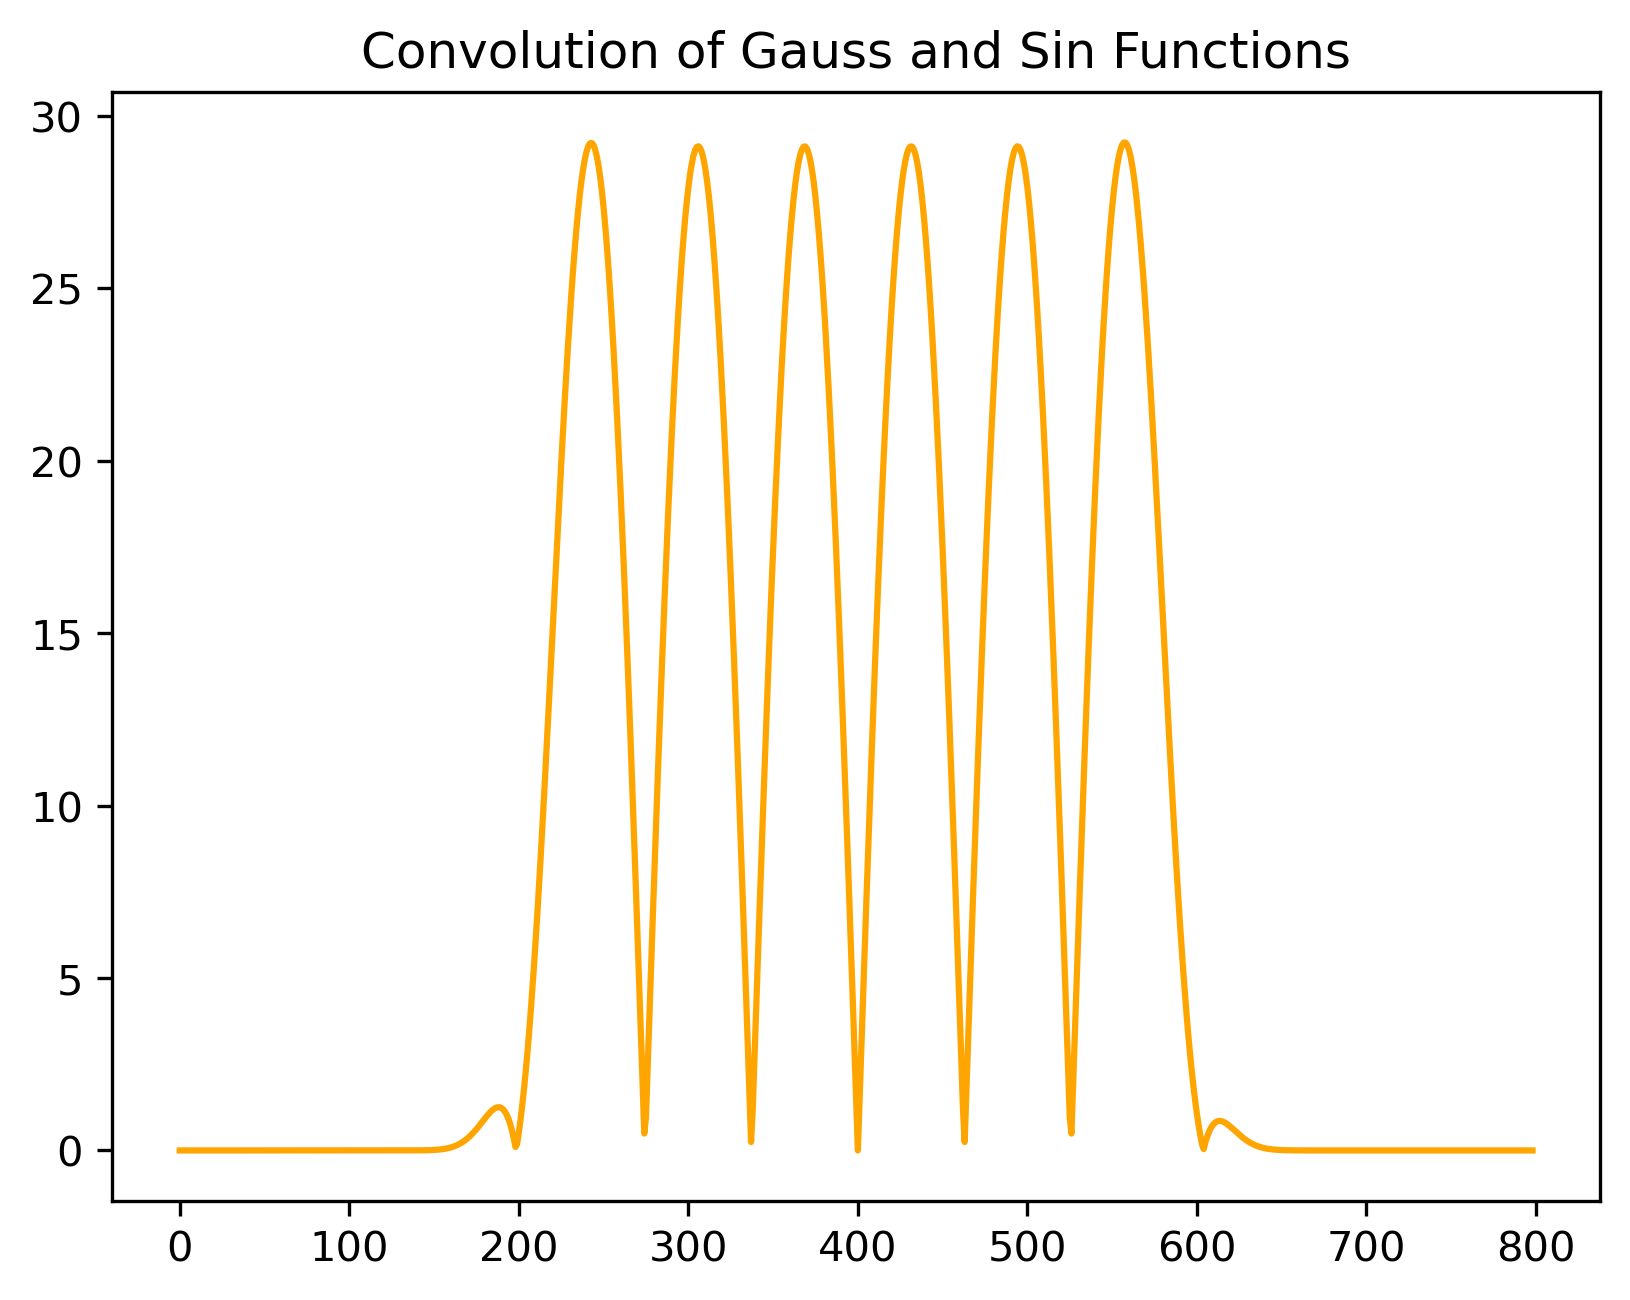
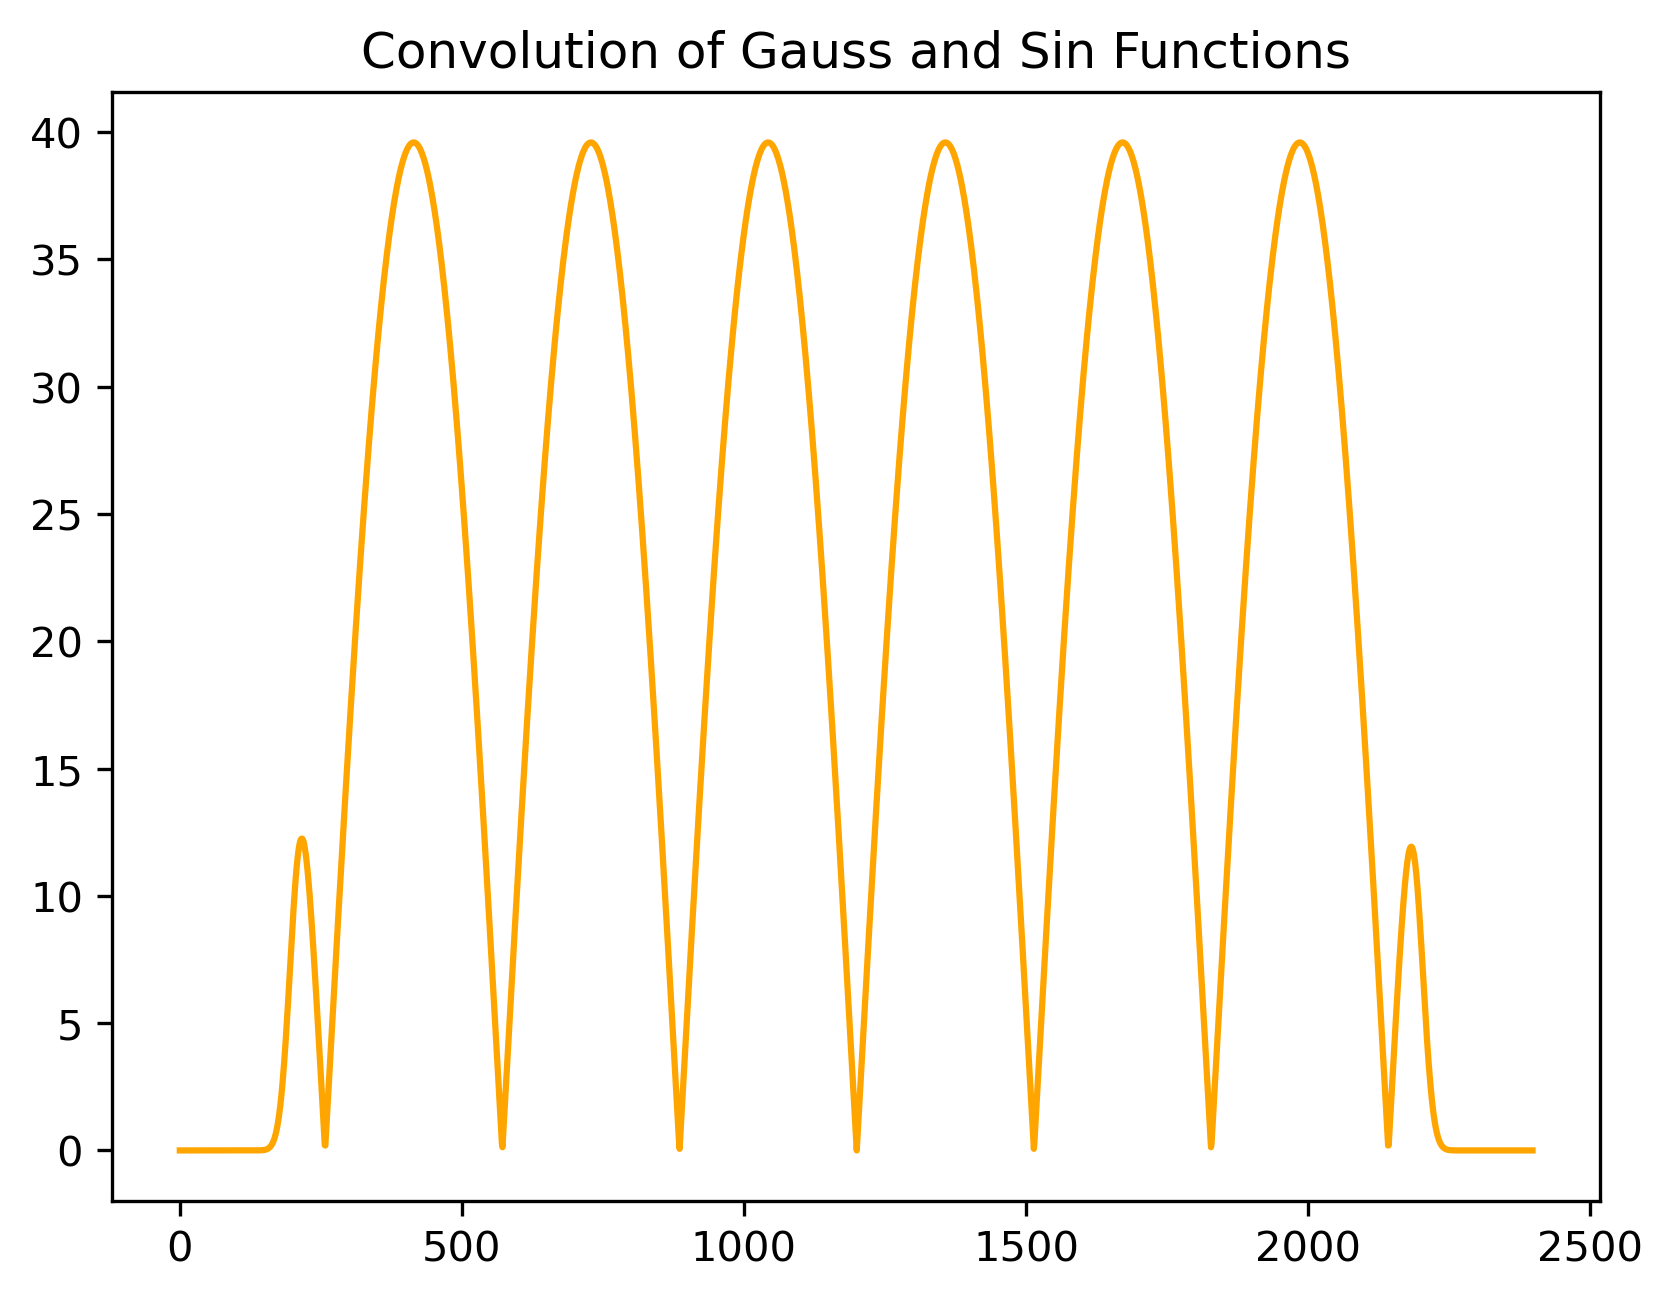
1122

diff --git a/problem_sets/ps5/p51.py b/problem_sets/ps5/p51.py
@@ -17,14 +17,14 @@ def con_shift(array,x,n =2):
 x = np.arange(-10,10,.05)
 y = np.exp(-0.5*x**2/(0.8**2))
 
-gauss_shift = con_shift(y,x,2)
+gauss_shift = con_shift(y,x,3)
 
 
-plt.plot(x,y)
-plt.plot(x,gauss_shift)
-plt.title('Half shift of Gaussian')
-plt.savefig("gauss_shift.png",dpi = 300, bbox_inches = 'tight')
-plt.show()
+# plt.plot(x,y)
+# plt.plot(x,gauss_shift)
+# plt.title('1/3 shift of Gaussian')
+# plt.savefig("gauss_shift_new.png",dpi = 300, bbox_inches = 'tight')
+# plt.show()
 
 def correl(a1, a2):
     a1_ft = np.fft.fft(a1)
@@ -44,7 +44,7 @@ def shift_cor(a1,a2, n):
     a1 = a1/a1.sum()
     output = correl(a1,new_a2)
     return output,new_a2,a1
-n = 2
+n = 3
 Shift_Gauss, shift_fun , new_y= shift_cor(y,y,n)
 # plt.plot(x,shift_fun,'r',label = 'Shifted Gauss')
 # plt.plot(x,new_y,'g',label = "Original Gauss")
@@ -63,8 +63,8 @@ def conv_safe(f,g):
     g_new = np.pad(g, (0, N2))
     fg = np.abs(np.fft.ifft(np.fft.fft(f_new)*np.fft.fft(g_new)))
     return fg
-
-g = np.sin(x)
+xg = np.arange(-10,10,.01)
+g = np.sin(xg)
 ygconv = conv_safe(y,g)
 plt.plot(ygconv,'orange')
 plt.title('Convolution of Gauss and Sin Functions')
